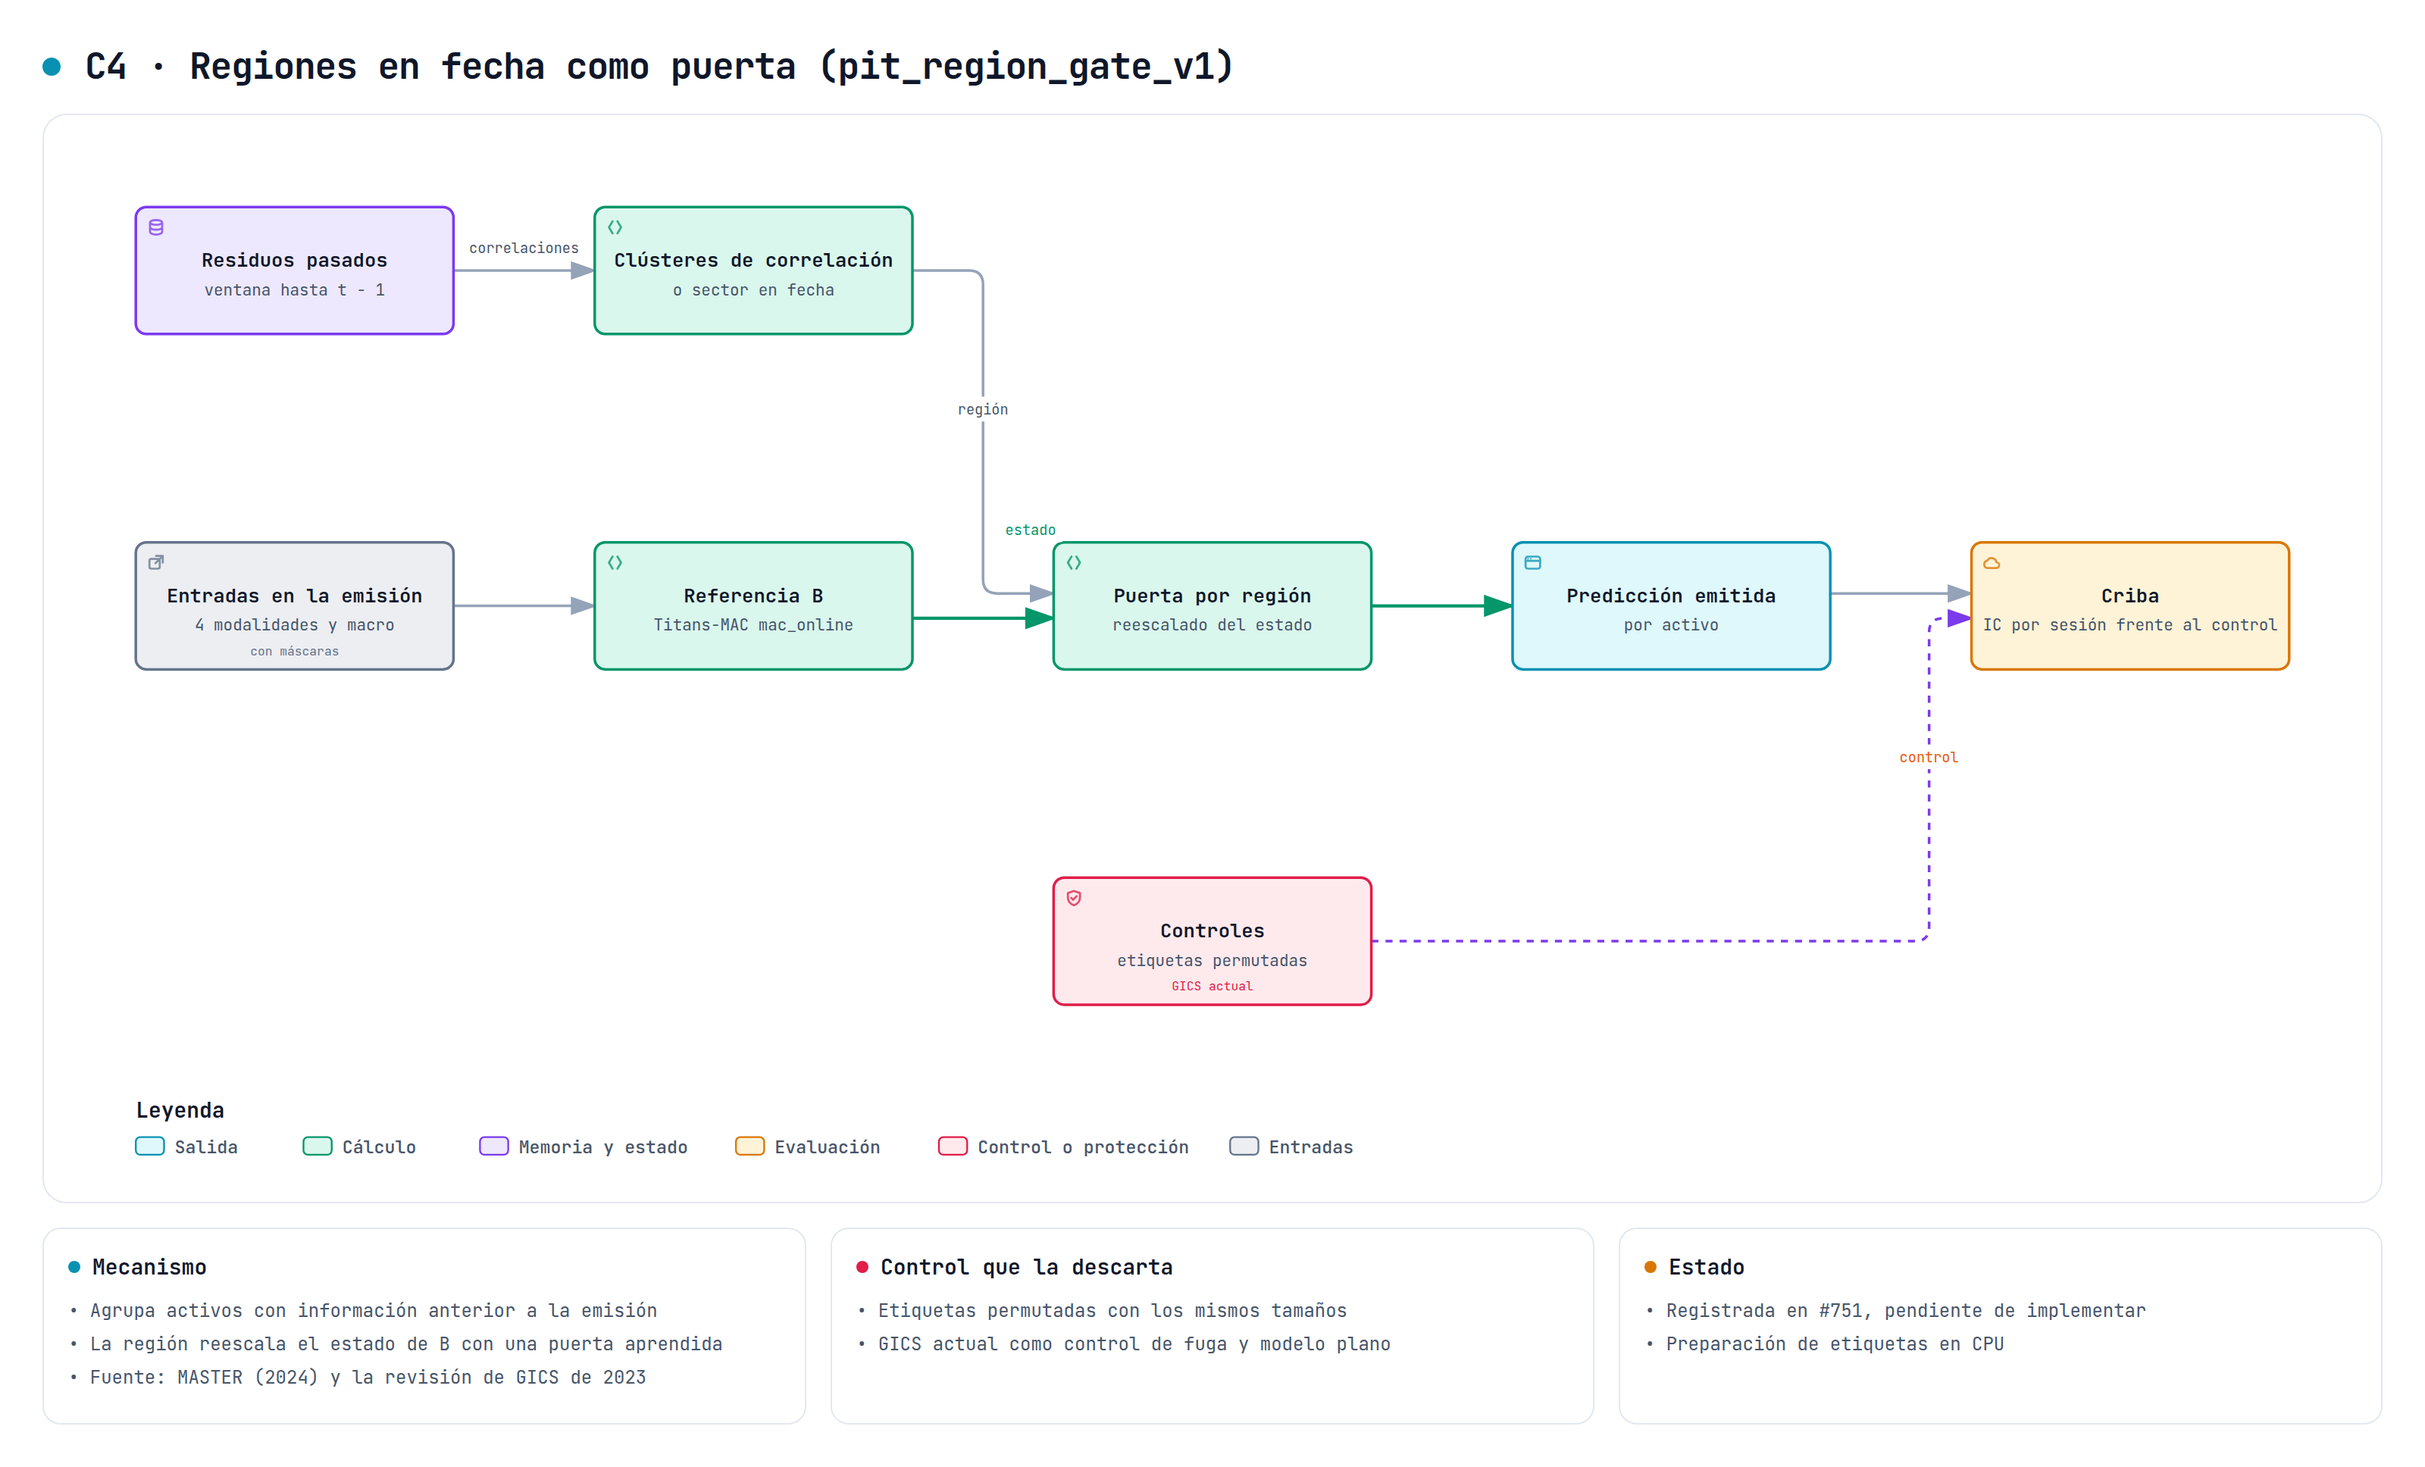
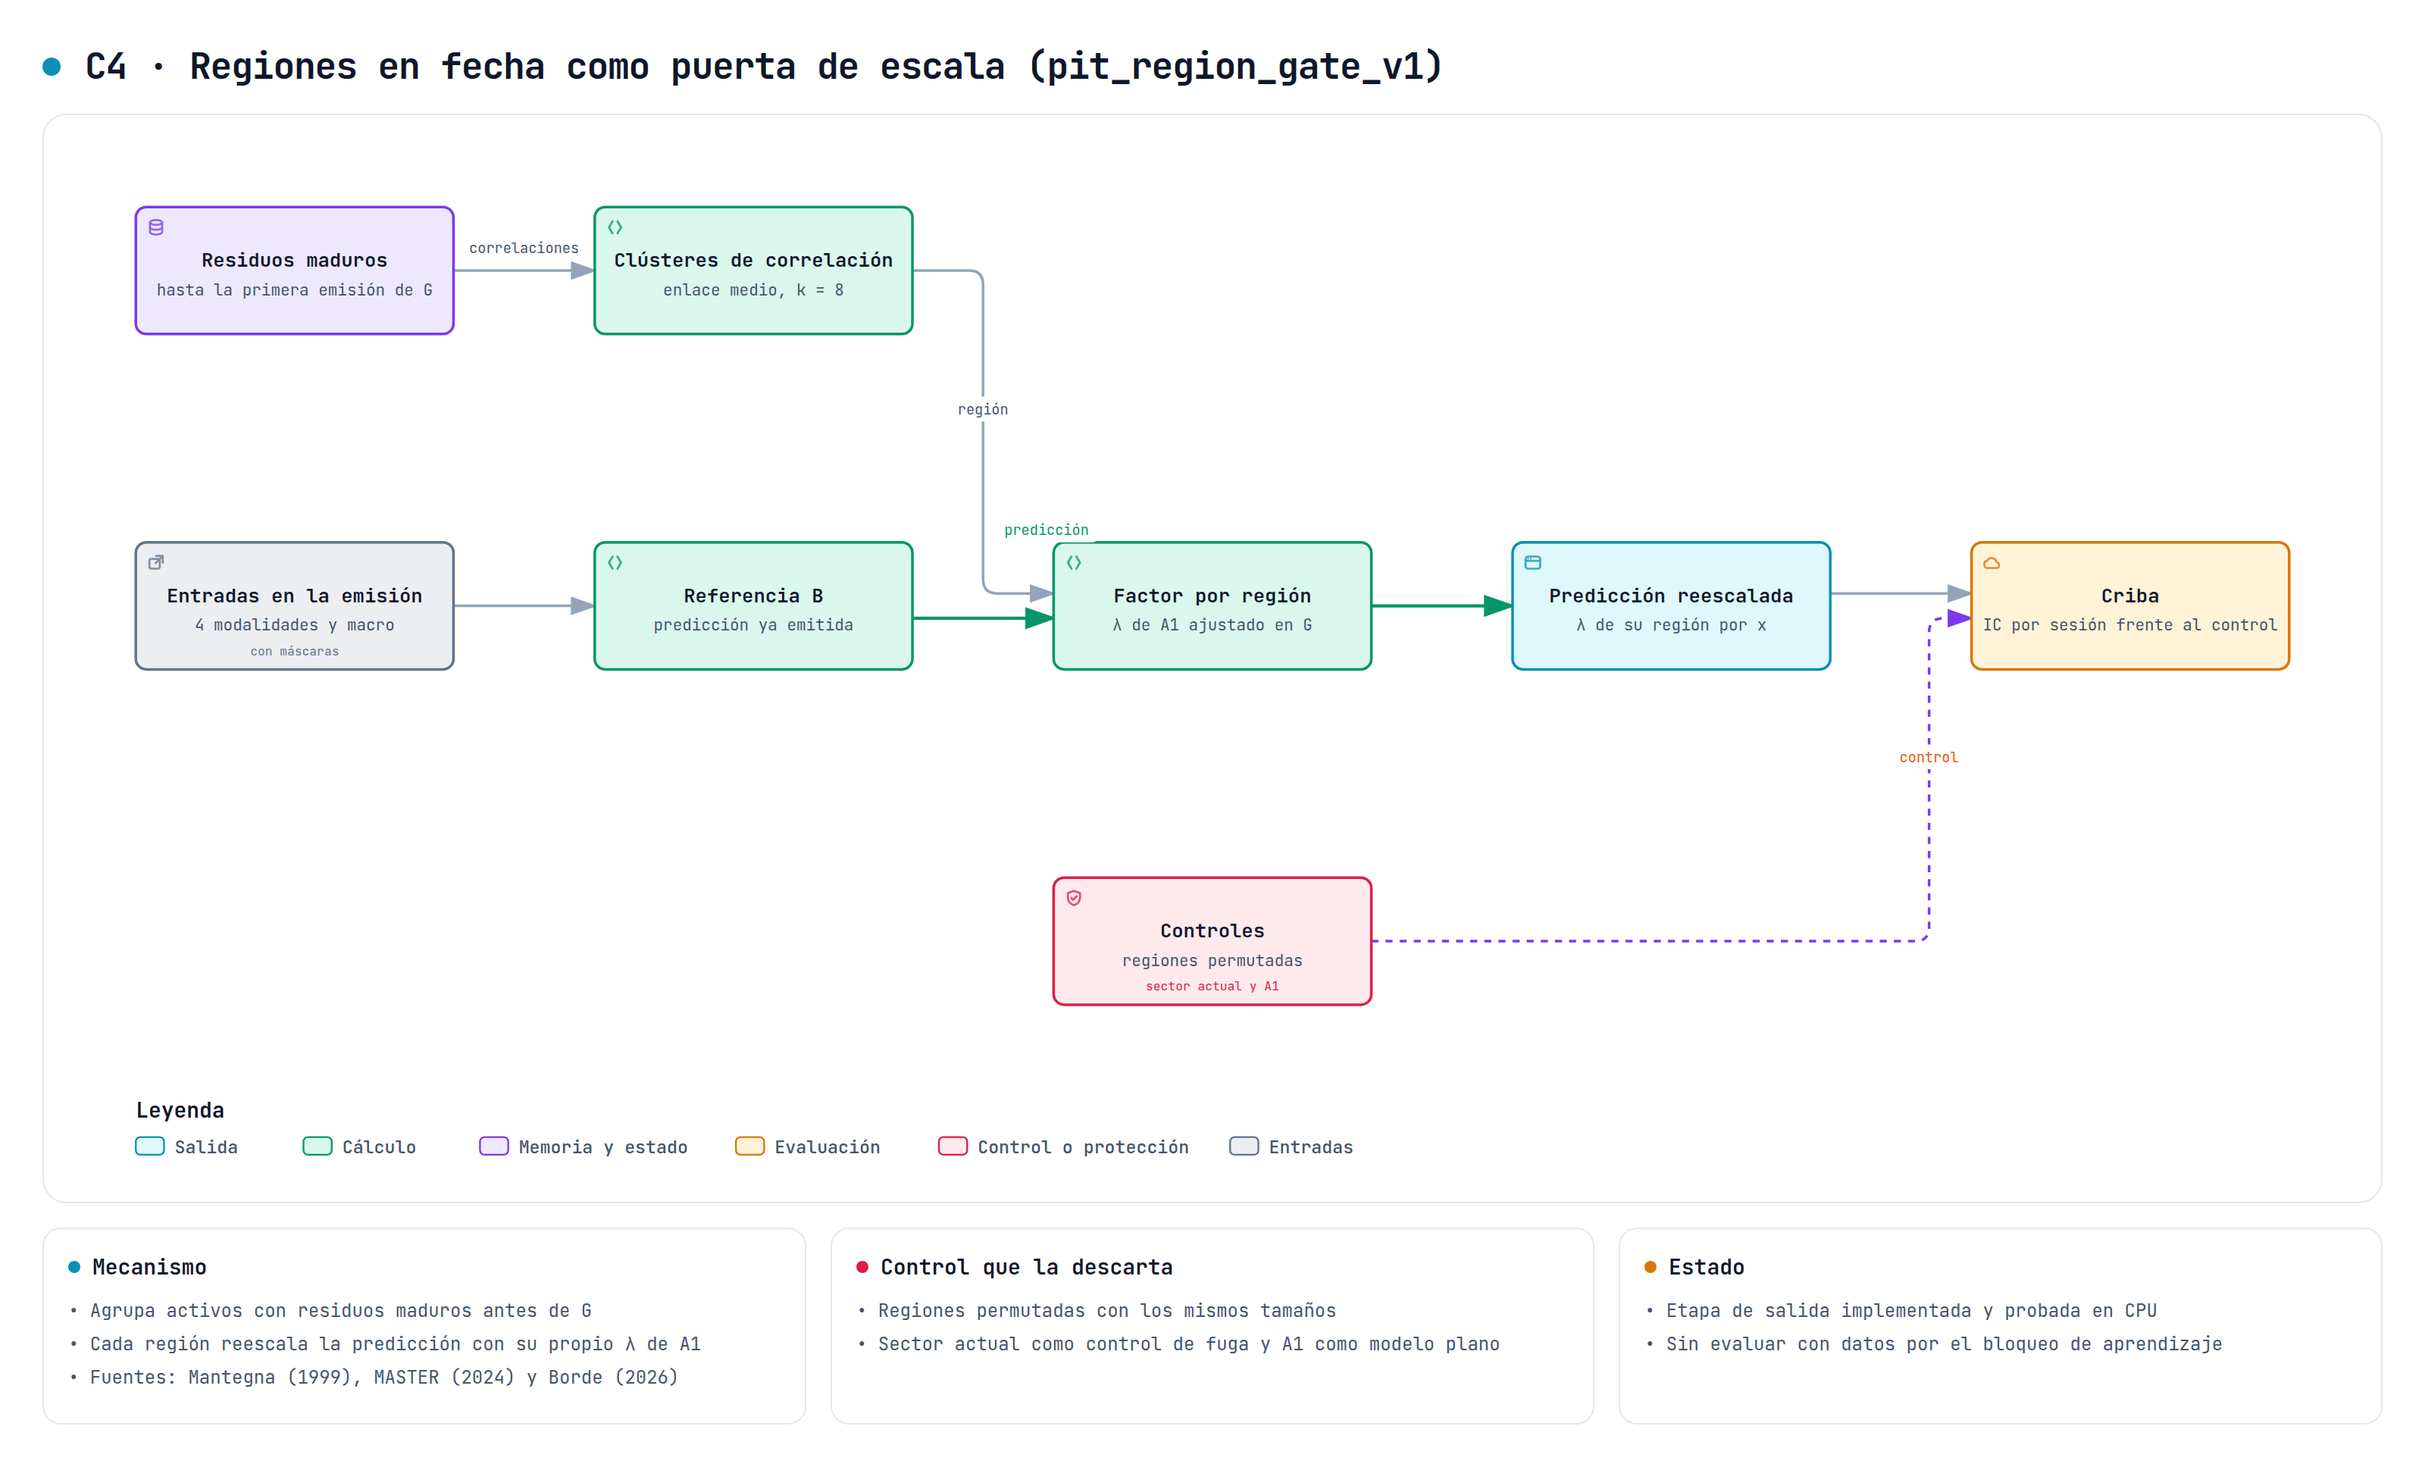
docs(experiments): document the point-in-time region gate and its cost
Describe the correlation regions, the per-region A1 factor, the permuted,
current-sector and market controls, the deviation from a learned gate, the
CPU receipt and the directed mutations, and update the C4 diagram. Refs #751.

diff --git a/docs/experiments/pit-region-gate-v1.md b/docs/experiments/pit-region-gate-v1.md
@@ -1,0 +1,106 @@
+# Puerta de reescalado por regiones en fecha
+
+`pit_region_gate_v1` es la variante C4 del estudio de variantes ([#742](https://github.com/GonxKZ/mars-titan/issues/742), [#751](https://github.com/GonxKZ/mars-titan/issues/751)). Es una etapa de salida. Agrupa los activos de cada mercado por la correlación de sus residuos ya maduros y reescala la predicción emitida con un factor por región. No cambia pesos, recetas ni la identidad del predictor. Está implementada en `src/mars_titan/evaluation/pit_region_gate.py` y comprobada con pruebas técnicas sobre historiales y paneles sintéticos. No se ha evaluado con datos y no hay ninguna mejora medida.
+
+## Motivación y fuentes
+
+La decisión 9 del estudio fija cómo se definen las regiones. Primero modalidad y mercado, después clústeres por correlación de la ventana pasada. El GICS actual solo sirve como control de fuga. Los cambios de GICS de marzo de 2023 movieron Visa, Mastercard, PayPal y Fiserv de Tecnología de la Información a Financieras, y catorce empresas del S&P 500 cambiaron de sector ([S&P DJI, Indexology](https://www.indexologyblog.com/2023/03/16/2023-gics-changes-sp-global-1200-impact-analysis/)). Las fichas sectoriales de FinMultiTime son actuales (`SectorMap` declara `point_in_time=False`), así que una región «tecnología» con la etiqueta de hoy usaría información posterior en todo el periodo desde 2000. No disponemos de una clasificación con fecha de vigencia verificada. Por eso la variante usa solo correlaciones pasadas.
+
+Agrupar acciones por la correlación de sus rentabilidades con un enlace jerárquico procede de [Mantegna (1999)](https://doi.org/10.1007/s100510050929), que construye una jerarquía de activos a partir de la distancia derivada de ρ. MASTER usa un vector de estado del mercado para reescalar características mediante una puerta ([Li et al., 2024](https://arxiv.org/abs/2312.15235)). Un preprint de 2026 sobre volatilidad realizada observa que las variables de régimen ayudan más cuando solo gobiernan la puerta que cuando entran como características ([Borde, 2026](https://ideas.repec.org/p/arx/papers/2608.12251.html)). Esa evidencia es sobre volatilidad, no sobre residuos de rentabilidad, y solo motiva la forma de la variante: la región decide la escala de la predicción, no añade otra entrada.
+
+El resumen de la fase 0 en #742 muestra predicciones mucho más amplias de lo que justifica su ordenación, y A1 corrige esa amplitud con un factor λ común por mercado. C4 pregunta si ese exceso de amplitud depende del grupo de activos. Si una región tiene residuos que el modelo ordena peor, su λ debe ser menor. Como el factor cambia entre regiones dentro de una misma sesión, C4 puede cambiar también el IC por sesión, cosa que A1 no hace.
+
+## Regla
+
+Sea $t_G$ la primera emisión de la calibración (G) de un mercado g. Para cada activo a se toman sus residuos con madurez $\le t_G$ en los W últimos instantes de madurez del mercado (W = 126 por defecto, unos seis meses de la validación que precede a G). Cada serie se estandariza con su media y su desviación típica en la ventana. La correlación de un par usa solo las madureces comunes:
+
+$$
+\rho_{ab}=\frac{\sum_{t\in C_{ab}} z_{a,t}\,z_{b,t}}{\sqrt{\sum_{t\in C_{ab}} z_{a,t}^2\;\sum_{t\in C_{ab}} z_{b,t}^2}},\qquad
+\rho_{ab}=0 \text{ si } |C_{ab}|<m.
+$$
+
+Las regiones salen del enlace medio sobre $1-\rho$, cortado en k grupos (k = 8 y m = 60 por defecto). Se numeran desde 1 por el menor activo que contienen, para que la numeración no dependa del orden interno de SciPy. Un activo con menos de m etiquetas o con residuos constantes va a la región 0. Después, con las filas de G de cada región r,
+
+$$
+\lambda_{g,r}=\arg\min_{\lambda\in[0,1]}\sum_{i\in G_{g,r}} w_i\,|y_i-\lambda x_i|,\qquad \hat y_i=\lambda_{g,r(i)}\,x_i,
+$$
+
+donde $w_i$ es el peso 1/n de la sesión y λ se calcula con la mediana ponderada de A1 (`scale_diagnostics.shrinkage_factor`). Un activo que no estaba en la calibración, o una región sin factor, usa el factor del mercado de A1, y un mercado sin factor predice cero, igual que en A1. Regiones y factores quedan congelados antes de abrir la evaluación.
+
+## Controles
+
+| `regions` | Regiones | Para qué sirve |
+| --- | --- | --- |
+| `residual_correlation` | Clústeres de la correlación pasada | La variante |
+| `permuted` | Las mismas etiquetas y tamaños repartidas al azar entre los activos con historia, con `SeedSequence([seed, mercado])` | Separa el efecto de agrupar bien del de tener k factores en lugar de uno |
+| `market` | Una sola región por mercado | Reproduce A1 bit a bit. Es el modelo plano |
+| `current_sector` | El sector de las fichas actuales, numerado por su nombre | Mide cuánto aportaría una etiqueta con fuga. Nunca es una evaluación válida por sí misma |
+
+La región 0 no se permuta, porque reúne los activos sin evidencia y su tamaño no lo decide el agrupamiento. Solo el control sectorial recibe los sectores. Cualquier otra combinación se rechaza.
+
+La variante se descarta si no mejora al control permutado en el contraste principal de la criba, que tras la fase 0 es el IC por sesión. El MAE por sesión frente a A1 se informa como contraste secundario. Si `current_sector` mejora mucho más que la variante, la diferencia apunta a la fuga de la etiqueta actual, no a una ventaja de los sectores. El contraste y la familia de corrección los fija el protocolo de la criba ([#746](https://github.com/GonxKZ/mars-titan/issues/746)).
+
+## Correspondencia entre ecuaciones, módulo y pruebas
+
+Las pruebas están en `tests/evaluation/test_pit_region_gate.py`. El historial sintético tiene doce activos y dos factores latentes, de modo que los grupos correctos se conocen de antemano.
+
+| Elemento | Código | Prueba |
+| --- | --- | --- |
+| $\rho_{ab}$ con madureces comunes y mínimo m | `correlation` | `test_correlation_matches_pearson_when_fully_observed_and_ignores_thin_pairs` |
+| Clústeres numerados por su menor activo | `residual_regions` | `test_planted_groups_are_recovered_and_numbered_by_their_first_asset` |
+| Solo madureces $\le t_G$ | `residual_regions` | `test_regions_only_read_labels_matured_by_the_cutoff` |
+| Región 0 | `residual_regions` | `test_short_or_constant_histories_go_to_region_zero` |
+| $\lambda_{g,r}$ con los pesos de A1 | `fit` | `test_each_region_gets_the_a1_factor_of_its_own_rows` |
+| $\hat y_i$ y factor del mercado | `apply` | `test_application_scales_each_row_and_unseen_assets_use_the_market_factor` |
+| Paridad con A1 | `fit` y `apply` | `test_the_market_control_reproduces_a1_bit_for_bit` |
+| Control permutado | `permuted_regions` | `test_the_permuted_control_keeps_sizes_and_changes_the_assignment` |
+| Control sectorial | `sector_regions` | `test_the_current_sector_control_is_the_only_mode_that_reads_sectors` |
+
+## Causalidad, estado y paridad
+
+- Las regiones solo leen etiquetas con madurez $\le t_G$. La prueba añade etiquetas extremas que maduran un día después del corte y las regiones no cambian. Las mismas etiquetas sí cambian el reparto cuando el corte las alcanza, lo que muestra que el filtro es lo que las deja fuera.
+- λ solo usa filas de G. El registro guarda la mayor madurez de esas etiquetas y `apply` rechaza un tramo con alguna emisión anterior.
+- `apply` no lee los objetivos de la evaluación.
+- Dos etiquetas del mismo activo con la misma madurez se rechazan, porque su orden sería arbitrario. Cualquier instante en 2024 se rechaza, también en el historial.
+- El activo se lee de la identidad `mercado/activo/instante` de cada fila y se rechaza una identidad con otra forma o con un mercado distinto del de la fila.
+- El estado es un registro JSON congelado con la configuración, las regiones, los factores por región y por mercado y la madurez del ajuste. `stage_sha256` lo identifica y la ida y vuelta por JSON reproduce las salidas bit a bit.
+- La etapa se registra en `evaluation/output_stages.py`. Sin etapa declarada, la salida es la del modelo.
+
+## Desviaciones y límites
+
+- **Puerta ajustada en la salida, no aprendida dentro del modelo.** La propuesta del estudio describe una puerta por región que reescala el estado del modelo. Dentro del modelo, la puerta necesitaría regiones estables durante todo el ajuste. Los clústeres de una ventana móvil cambian de numeración y de miembros entre orígenes, y alinearlos en el tiempo es otro problema con sus propias decisiones. La etapa de salida usa una sola asignación por origen, fijada antes de G, y no exige otro ajuste del modelo. Una puerta aprendida queda como ampliación posible si esta versión supera a sus controles.
+- No hay sector en fecha. Si se verificara una clasificación con fecha de vigencia, entraría como otro valor de `regions` con su propio control.
+- El corte se hace por número de grupos y no por altura del dendrograma. Con un mercado de pocos activos con historia, varios grupos pueden quedar con un solo activo, y su λ se ajusta con pocas filas.
+- Las regiones se calculan una vez por origen con la ventana previa a G. No se actualizan durante la evaluación.
+- La lectura de los Parquet y la alineación del historial con la vista de cada ventana las hará la criba.
+
+## Coste medido
+
+Sin tensores ni parámetros entrenables no hay forward ni backward. `benchmarks/pit_region_gate_cost.py` mide la etapa en CPU con los paneles sintéticos de `output_stage_cost` y un historial de 126 madureces por activo con ocho factores latentes, de semilla fija, que solo fijan formas. En los tres casos el agrupamiento forma ocho regiones del mismo tamaño que los grupos plantados. El [recibo](../../reports/engineering/pit-region-gate-20261027/cpu-cost.json) guarda medianas de cinco repeticiones con dos hilos de BLAS, en un Ryzen 9 8945HS con otras sesiones compartiendo la máquina (carga media de 30 al empezar y la swap llena). Esa carga limita la comparación y las cifras no son cotas superiores.
+
+| Caso | Filas evaluadas | Filas de G | Lectura de activos | Regiones | Ajuste | Control permutado | Emisión | Pico de NumPy en el ajuste |
+| --- | ---: | ---: | ---: | ---: | ---: | ---: | ---: | ---: |
+| 256 activos, 63 sesiones | 16.128 | 16.128 | 0,021 s | 0,055 s | 0,082 s | 0,085 s | 0,005 s | 7,8 MB |
+| 256 activos, 252 sesiones | 64.512 | 16.128 | 0,115 s | 0,051 s | 0,088 s | 0,087 s | 0,024 s | 7,8 MB |
+| 4.200 activos, 252 sesiones | 1.058.400 | 264.600 | 1,47 s | 7,23 s | 10,84 s | 10,51 s | 0,226 s | 1.071,8 MB |
+
+El ajuste incluye las regiones y los factores, y se hace una vez por origen y mercado. Con 256 activos, la población de la criba, cuesta menos de una décima de segundo y no merece optimización. Con 4.200 activos domina la correlación. Un perfil aparte con la misma forma midió 0,12-0,18 s en cada uno de los tres productos de matrices y entre 2 y 4 s en cada pasada elemento a elemento sobre las matrices de 4.200 × 4.200 (raíz, división y recorte), con la misma presión de memoria. El enlace medio de SciPy tardó 0,7-0,8 s. Esas pasadas y el pico de 1,07 GB se podrían reducir con operaciones en el sitio. No se ha hecho porque la criba no usa esa población.
+
+No se midieron la GPU, la lectura de Parquet ni la energía.
+
+## Mutaciones dirigidas
+
+Se aplicaron 20 mutaciones a la lógica crítica y se revirtieron después. Todas hacen fallar alguna prueba. Cinco sobrevivían al principio y motivaron pruebas nuevas:
+
+- Exigir más madureces comunes que el mínimo en un par. Ahora un par con exactamente m madureces comunes debe aportar su correlación.
+- Usar el enlace simple. La prueba compara con una referencia directa de SciPy sobre residuos sin estructura, donde los dos enlaces reparten distinto.
+- Numerar las regiones por su último activo, que la misma referencia distingue.
+- Guardar la menor madurez de G en lugar de la mayor. Ahora una emisión entre ambas se rechaza.
+- Cortar el historial en la última emisión de G en lugar de la primera. Ahora etiquetas extremas que maduran dentro de G no cambian las regiones.
+
+Las demás cubren el corte de madurez, el extremo de la ventana, el mínimo de etiquetas, los residuos constantes, el centrado, el orden de la numeración, la región 0 en la permutación, la semilla, el orden de los sectores, los pesos de sesión, el factor del mercado para activos nuevos, la comprobación de madurez en la emisión, las madureces duplicadas y la exclusividad del control sectorial.
+
+## Pendiente
+
+- Aplicar la etapa en el análisis de la criba sobre los Parquet de cada trabajo (#746).
+- Cualquier evaluación con datos, bloqueada mientras rija el bloqueo de aprendizaje.
